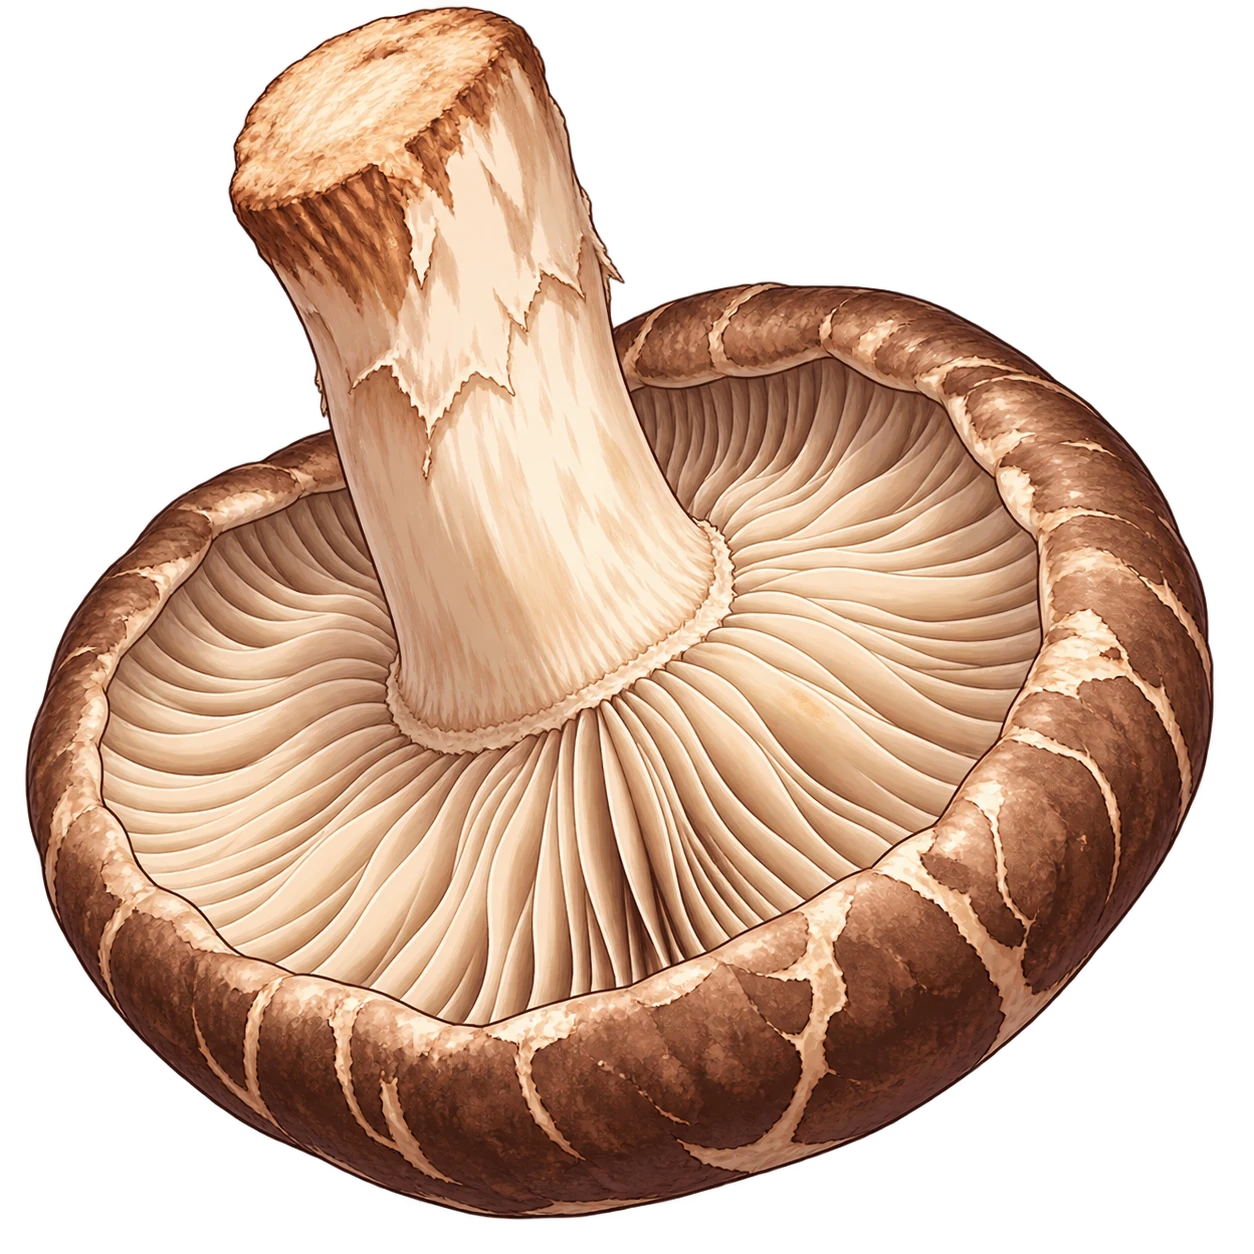
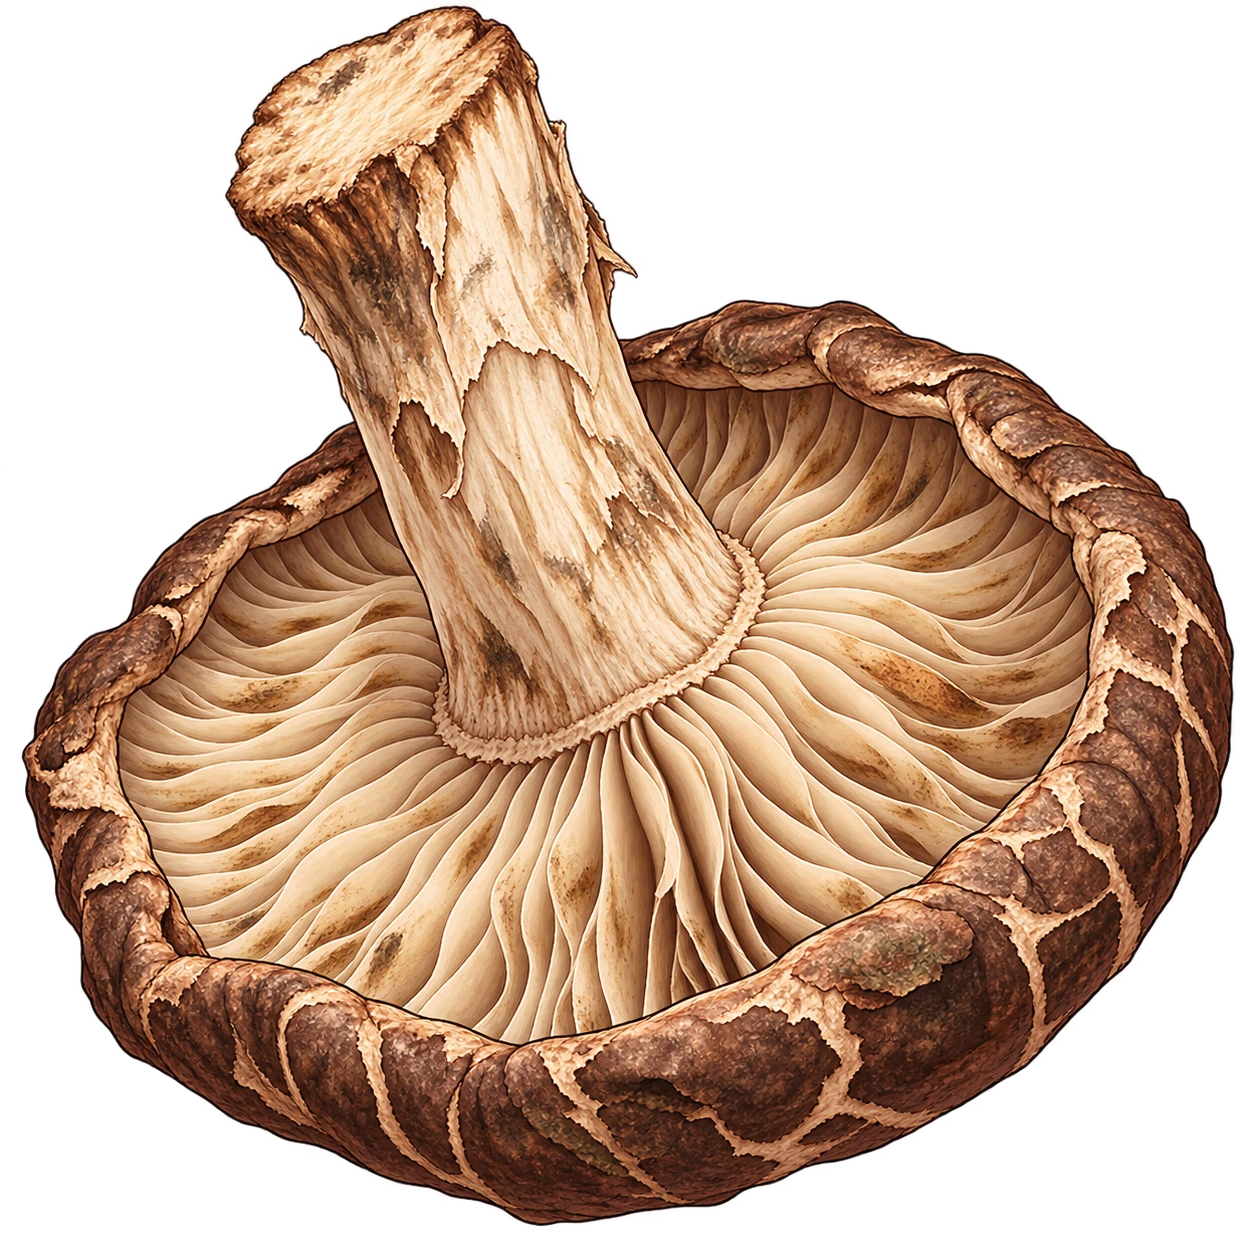
fix: size the rōmaji gap to the answer, not a fixed 1.6ch
Every b1 kana's romaji fit in 1.6ch by coincidence (1-2 letters). shi
is the first one that doesn't, and its gap clipped the answer. Width
now comes from --gap-chars, set from the unit's own romaji length.

Also swaps shi's mnemonic art for a drier, more "about to rot" shiitake.

diff --git a/src/aisle/book/recognition/WordGap.scss b/src/aisle/book/recognition/WordGap.scss
@@ -32,9 +32,10 @@
   // El hueco. Hereda tamaño y familia del renglón, así que lo escrito cae exactamente sobre la
   // línea del resto de la palabra en vez de flotar dentro de una caja.
   &__input {
-    // El ancho NO sale del contenido: un campo que crece al teclear movería la palabra entera
-    // de sitio justo mientras se está escribiendo.
-    width: 1.6ch;
+    // El ancho NO sale del contenido —un campo que crece al teclear movería la palabra
+    // entera de sitio justo mientras se está escribiendo—, sino de `--gap-chars`, la
+    // longitud del rōmaji que se pide: sin ella, «shi» no cabría en una caja de una letra.
+    width: calc(var(--gap-chars, 1) * 1ch + 0.6ch);
     padding: 0;
     border: none;
     // La raya de un ejercicio de papel: lo único que marca que ahí falta algo.
@@ -85,7 +86,7 @@
     }
 
     .word-gap__input {
-      width: 1.8em;
+      width: calc(var(--gap-chars, 1) * 1em + 0.6em);
       padding: 0.15em 0;
       border: 2px solid var(--color-ink-soft);
       border-radius: 0.2em;

diff --git a/src/aisle/book/recognition/WordGap.tsx b/src/aisle/book/recognition/WordGap.tsx
@@ -1,3 +1,4 @@
+import type { CSSProperties } from 'react'
 import { wordReading, wordText, type Kana, type Word } from '../../../content/types'
 import './WordGap.scss'
 
@@ -37,6 +38,9 @@ export function WordGap({ word, kana, scope = 'studied' }: WordGapProps) {
               className="word-gap__input"
               key={`${word.id}-${index}`}
               type="text"
+              // El ancho depende de esto: sin la variable, «shi» no cabría en una caja
+              // pensada para una sola letra.
+              style={{ '--gap-chars': unit.romaji.length } as CSSProperties}
               // La respuesta viaja en un atributo: quien corrige es un clon fuera de React.
               data-answer={unit.romaji}
               maxLength={unit.romaji.length}
